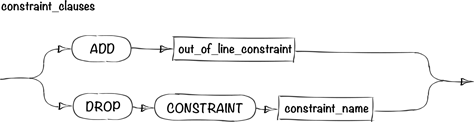
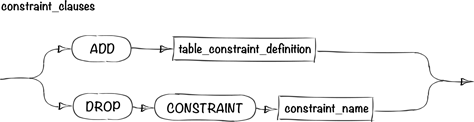
Syntaxhilfe überarbeitet

Changed region(s): [[0.3544, 0.2951, 0.7679, 0.5164], [0.4135, 0.2951, 0.5316, 0.3197]]

diff --git a/src/resources/syntax/index.html b/src/resources/syntax/index.html
@@ -66,6 +66,7 @@ POSSIBILITY OF SUCH DAMAGE.
                 <li><a href="alter_table.html">alter_table</a></li>
                 <li><a href="alter_table_properties.html">alter_table_properties</a></li>
                 <li><a href="column_clauses.html">column_clauses</a></li>
+                <li><a href="column_name_list.html">column_name_list</a></li>
                 <li><a href="compound_operator.html">compound_operator</a></li>
                 <li><a href="constraint_clauses.html">constraint_clauses</a></li>
                 <li><a href="create_table.html">create_table</a></li>
@@ -87,7 +88,6 @@ POSSIBILITY OF SUCH DAMAGE.
                 <li><a href="object_privileges.html">object_privileges</a></li>
                 <li><a href="on_object_clause.html">on_object_clause</a></li>
                 <li><a href="order_by_clause.html">order_by_clause</a></li>
-                <li><a href="out_of_line_constraint.html">out_of_line_constraint</a></li>
                 <li><a href="outer_join_clause.html">outer_join_clause</a></li>
                 <li><a href="query_table_expression.html">query_table_expression</a></li>
                 <li><a href="references_clause.html">references_clause</a></li>
@@ -95,6 +95,7 @@ POSSIBILITY OF SUCH DAMAGE.
                 <li><a href="revoke.html">revoke</a></li>
                 <li><a href="select_list.html">select_list</a></li>
                 <li><a href="subquery.html">subquery</a></li>
+                <li><a href="table_constraint_definition.html">table_constraint_definition</a></li>
                 <li><a href="table_reference.html">table_reference</a></li>
                 <li><a href="update.html">update</a></li>
                 <li><a href="update_set_clause.html">update_set_clause</a></li>

diff --git a/src/resources/syntax/table_constraint_definition.html b/src/resources/syntax/table_constraint_definition.html
@@ -33,12 +33,15 @@ POSSIBILITY OF SUCH DAMAGE.
     <body>
         <div class="nav"><a href="index.html"><img src="home.png" /></a></div>
         <div class="ebnf">
-            constraint_clauses ::=<br />
-            <code>{<br />
-                <kbd>ADD</kbd> </code><a href="table_constraint_definition.html">table_constraint_definition</a><br />
-            <code>| <kbd>DROP</kbd> <kbd>CONSTRAINT</kbd> </code>constraint_name<br />
-            <code>}</code>
+            table_constraint_definition ::=<br />
+            <code>[ <kbd>CONSTRAINT</kbd> </code>constraint_name<code> ]<br />
+                {<br />
+                <kbd>UNIQUE</kbd> </code><a href="column_name_list.html">column_name_list</a><code><br />
+                | <kbd>PRIMARY</kbd> <kbd>KEY</kbd> </code><a href="column_name_list.html">column_name_list</a><code><br />
+                | <kbd>FOREIGN</kbd> <kbd>KEY</kbd> </code><a href="column_name_list.html">column_name_list</a><code> </code><a href="references_clause.html">references_clause</a><code><br />
+                | <kbd>CHECK</kbd> <kbd>(</kbd> </code>condition<code> <kbd>)</kbd><br />
+                }</code>
         </div>
-        <div class="diagram"><img src="diagrams/constraint_clauses.png" /></div>
+        <div class="diagram"><img src="diagrams/table_constraint_definition.png" /></div>
     </body>
 </html>

diff --git a/src/resources/syntax/column_name_list.html b/src/resources/syntax/column_name_list.html
@@ -33,15 +33,9 @@ POSSIBILITY OF SUCH DAMAGE.
     <body>
         <div class="nav"><a href="index.html"><img src="home.png" /></a></div>
         <div class="ebnf">
-            out_of_line_constraint ::=<br />
-            <code>[ <kbd>CONSTRAINT</kbd> </code>constraint_name<code> ]<br />
-                {<br />
-                <kbd>UNIQUE</kbd> <kbd>(</kbd> </code>column<code> [<kbd>,</kbd> </code>column<code>]... <kbd>)</kbd><br />
-                | <kbd>PRIMARY</kbd> <kbd>KEY</kbd> <kbd>(</kbd> </code>column<code> [<kbd>,</kbd> </code>column<code>]... <kbd>)</kbd><br />
-                | <kbd>FOREIGN</kbd> <kbd>KEY</kbd> <kbd>(</kbd> </code>column<code> [<kbd>,</kbd> </code>column<code>]... <kbd>)</kbd> </code><a href="references_clause.html">references_clause</a><code><br />
-                | <kbd>CHECK</kbd> <kbd>(</kbd> </code>condition<code> <kbd>)</kbd><br />
-                }</code>
+            column_name_list ::=<br />
+            <code><kbd>(</kbd> </code>column<code> [<kbd>,</kbd> </code>column<code>]... <kbd>)</kbd></code>
         </div>
-        <div class="diagram"><img src="diagrams/out_of_line_constraint.png" /></div>
+        <div class="diagram"><img src="diagrams/column_name_list.png" /></div>
     </body>
 </html>

diff --git a/src/resources/syntax/select_list.html b/src/resources/syntax/select_list.html
@@ -36,8 +36,8 @@ POSSIBILITY OF SUCH DAMAGE.
             select_list ::= <br />
             <code> { <br/>
                 <kbd>*</kbd><br/>
-                | { [ </code>schema<code><kbd>.</kbd> ] { </code>table<code> | </code>view<code> } <kbd>.*</kbd> | </code>expr
-            <code> } [ <kbd>,</kbd> { [ </code>schema<code><kbd>.</kbd> ] { </code>table<code> | </code>view<code> } <kbd>.*</kbd> | </code>expr<code> } ]...<br />
+                | { [ </code>schema<code><kbd>.</kbd> ] { </code>table<code> | </code>view<code> } <kbd>.*</kbd> | </code>expr <code> } [ [ <kbd>AS</kbd> ] </code>c_alias<code> ]<br/> 
+   [ <kbd>,</kbd> { [ </code>schema<code><kbd>.</kbd> ] { </code>table<code> | </code>view<code> } <kbd>.*</kbd> | </code>expr<code> } [ [ <kbd>AS</kbd> ] </code>c_alias<code> ] ]...<br />
                 }</code>
         </div>
         <div class="diagram"><img src="diagrams/select_list.png" /></div>

diff --git a/src/resources/syntax/relational_properties.html b/src/resources/syntax/relational_properties.html
@@ -34,13 +34,10 @@ POSSIBILITY OF SUCH DAMAGE.
         <div class="nav"><a href="index.html"><img src="home.png" /></a></div>
         <div class="ebnf">
             relational_properties ::=<br />
-            column_name
-            datatype
-            <code> [ <kbd>DEFAULT</kbd> </code>
-            expr
-            <code> ] [ </code>
-            <a href="inline_constraint.html">inline_constraint</a>
-            <code> ]...</code>
+            <code>{<br/>
+            </code>column_name datatype<code> [ <kbd>DEFAULT</kbd> </code>expr<code> ] [ </code><a href="inline_constraint.html">inline_constraint</a><code> ]...<br/>
+                | </code><a href="table_constraint_definition.html">table_constraint_definition</a><br/>
+            <code>}</code>
         </div>
         <div class="diagram"><img src="diagrams/relational_properties.png" /></div>
     </body>

diff --git a/src/resources/syntax/dml_table_expression_clause.html b/src/resources/syntax/dml_table_expression_clause.html
@@ -34,7 +34,7 @@ POSSIBILITY OF SUCH DAMAGE.
         <div class="nav"><a href="index.html"><img src="home.png" /></a></div>
         <div class="ebnf">
             dml_table_expression_clause ::=<br />
-            <code>[ </code>schema<code><kbd>.</kbd> ] { </code>table<code> | </code>view<code> | </code>materialized view<code> } [ </code>t_alias<code> ]</code>
+            <code>[ </code>schema<code><kbd>.</kbd> ] { </code>table<code> | </code>view<code> } [ </code>t_alias<code> ]</code>
         </div>
         <div class="diagram"><img src="diagrams/dml_table_expression_clause.png" /></div>
     </body>

diff --git a/src/resources/syntax/references_clause.html b/src/resources/syntax/references_clause.html
@@ -36,8 +36,7 @@ POSSIBILITY OF SUCH DAMAGE.
             references_clause ::=<br />
             <code>
                 <kbd>REFERENCES</kbd> [ </code>schema<code> <kbd>.</kbd> ] 
-            </code>object<code>
-                [ <kbd>(</kbd> </code>column<code> [<kbd>,</kbd> </code>column<code>]... <kbd>)</kbd> ]
+            </code>object<code> </code><a href="column_name_list.html">column_name_list</a><code> 
                 [ <kbd>ON</kbd> <kbd>DELETE</kbd>
                 { <kbd>CASCADE</kbd>
                 | <kbd>SET</kbd> <kbd>NULL</kbd>
